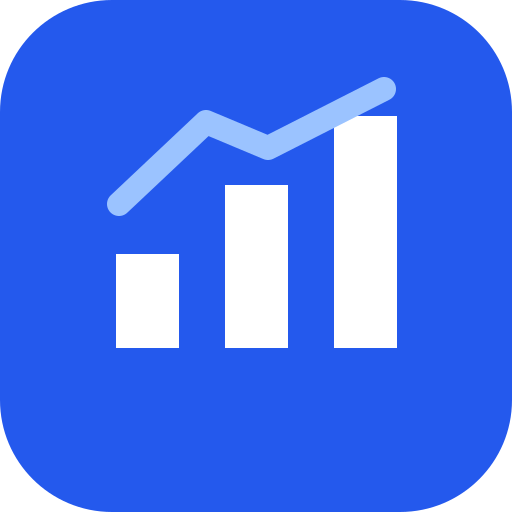
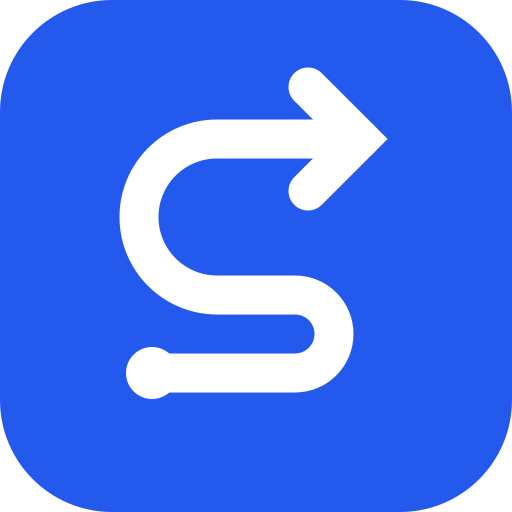
STR-002: rebrand product as Stratino without changing saved projects

Changed region(s): [[0.1875, 0.125, 0.7812, 0.7812]]

diff --git a/src/tours.js b/src/tours.js
@@ -6,7 +6,7 @@ const finish = step('.head-actions','تحلیل را به اقدام وصل کن
 const definitions = {
  overview:[intro,step('.strategy-banner','قدم بعدی شما','Your next step','مسیر ششمرحلهای یک فرایند تکرارشونده است. از این کارت به خروجی مرحله بعد بروید.','The six-stage workflow is iterative. This card takes you to the next deliverable.'),step('.metric','یک شاخص، یک دوره','One metric, one period','واحد، دوره مالی و مبنای مقایسه را بخوانید. ROA ماهانه را با ROA سالانه مقایسه نکنید.','Check the unit, accounting period and comparison baseline. Do not compare monthly ROA directly with annual ROA.'),step('.chart','عملکرد در برابر هدف','Actual versus target','خط پیوسته فروش نمونه و خط نقطهچین هدف است. فاصله را با علت و اقدام اصلاحی توضیح دهید.','The solid line is sample revenue; the dashed line is the target. Explain the gap with a cause and corrective action.'),finish],
  journey:[intro,step('.road-card','خروجی هر مرحله','A deliverable for every stage','این مسیر قفل ندارد. تکمیل فقط اعلام وضعیت تیم است؛ میتوانید برای اصلاح فرضها به مراحل قبل برگردید.','No stage is locked. Completion records your team’s progress. Return to earlier stages when assumptions change.'),finish],
- company:[intro,step('[data-tour="icp"]','ICP چیست؟','What is an ICP?','ICP توصیف مشتری یا شرکت ایدهآل است، نه یک نسبت با فرمول ثابت. برای نمونه رویش: شرکتهای ۵۰ تا ۲۰۰۰ نفره با نیاز تغذیه سالم و بودجه مشخص.','An ideal customer profile describes the customer or company you can serve best. It is not a ratio with a universal formula. Royesh’s example targets companies with 50–2,000 employees and a healthy-snack budget.'),step('.panel','ICP را با شاهد بسازید','Validate the profile','اندازه و صنعت، مسئله مشتری، بودجه، تصمیمگیرنده و معیار عدمپذیرش را بنویسید. با مصاحبه و داده خرید بررسی کنید کدام بخش سودآورتر و ماندگارتر است.','Document size and industry, customer problem, budget, decision-maker and disqualifiers. Validate the segment using interviews, purchase economics and retention.'),step('[data-action="companyEdit"]','پروفایل را اصلاح کنید','Update the company profile','مشتری هدف، مسئله اصلی و مرز انتخابها را در این فرم ثبت کنید. تغییرات در مرورگر ذخیره میشوند.','Use this form to record the target customer, central problem and boundaries of your strategy. Changes are saved locally.'),finish],
+ company:[intro,step('[data-tour="icp"]','ICP چیست؟','What is an ICP?','ICP توصیف مشتری یا شرکت ایدهآل است، نه یک نسبت با فرمول ثابت. برای شرکت نمونه: شرکتهای ۵۰ تا ۲۰۰۰ نفره با نیاز تغذیه سالم و بودجه مشخص.','An ideal customer profile describes the customer or company you can serve best. It is not a ratio with a universal formula. The sample company targets companies with 50–2,000 employees and a healthy-snack budget.'),step('.panel','ICP را با شاهد بسازید','Validate the profile','اندازه و صنعت، مسئله مشتری، بودجه، تصمیمگیرنده و معیار عدمپذیرش را بنویسید. با مصاحبه و داده خرید بررسی کنید کدام بخش سودآورتر و ماندگارتر است.','Document size and industry, customer problem, budget, decision-maker and disqualifiers. Validate the segment using interviews, purchase economics and retention.'),step('[data-action="companyEdit"]','پروفایل را اصلاح کنید','Update the company profile','مشتری هدف، مسئله اصلی و مرز انتخابها را در این فرم ثبت کنید. تغییرات در مرورگر ذخیره میشوند.','Use this form to record the target customer, central problem and boundaries of your strategy. Changes are saved locally.'),finish],
  environment:[intro,step('.cols-3 .panel','از روند به عامل','From a trend to a factor','PESTEL روندهای سیاسی، اقتصادی، اجتماعی، فناوری، محیطزیستی و حقوقی را بررسی میکند. برای هر عامل، اثر بر شرکت و منبع بنویسید.','PESTEL examines political, economic, social, technological, environmental and legal trends. Record a source and the effect on your company.'),step('.bar-chart','TAM، SAM و SOM','TAM, SAM and SOM','کل بازار، بازار قابلخدمت و سهم قابلدستیابی را با یک واحد و بازه زمانی بسنجید. SOM باید با ظرفیت فروش و وصول سازگار باشد.','Use consistent units and periods for total, serviceable and obtainable markets. SOM must fit your sales and collection capacity.'),finish],
  industry:[intro,step('.radar','پنج نیروی پورتر','Porter’s five forces','این تحلیل درباره ساختار صنعت است. امتیازهای ۱ تا ۵ فقط مقیاس کارگاهی این نمونهاند؛ رتبه علمی قطعی نیستند.','This analyzes industry structure. The 1–5 ratings are workshop scales in this prototype, not a standard Porter scoring formula.'),step('.data-table','مقایسه منصفانه رقبا','Compare competitors consistently','در CPM برای همه رقبا عوامل و وزنهای یکسان انتخاب کنید. مجموع وزنها ۱۰۰٪ است؛ رتبه ۱ تا ۴ با شاهد پشتیبانی شود.','In CPM, use the same factors and weights for every competitor. Weights total 100%; justify each 1–4 rating with evidence.'),finish],
  internal:[intro,step('.data-table','چهار سؤال VRIO','The four VRIO questions','ارزشمند، کمیاب، تقلید دشوار و قابلبهرهبرداری توسط سازمان؟ با لمس خانهها پاسخ را تغییر دهید. چهار بله فقط کاندیدای مزیت پایدار است.','Valuable, rare, costly to imitate and supported by the organization? Click cells to change answers. Four yeses identify a candidate for sustained advantage.'),step('.value-chain','ارزش کجا ساخته میشود؟','Where is value created?','در هر فعالیت زنجیره ارزش، هزینه و تمایز را تحلیل کنید و قابلیت را به عملکرد واقعی پیوند دهید.','Examine cost and differentiation in each value-chain activity. Connect capabilities to observed performance.'),finish],

diff --git a/src/data.js b/src/data.js
@@ -55,7 +55,7 @@ export function createSeed() {
     ['I1','کنترل کیفیت و قابلیت رهگیری هر محصول','قوت',15,4],['I2','تیم کوچک با سرعت بالای تصمیمگیری','قوت',12,3],['I3','مشتریان تکرارشونده در کانال مستقیم','قوت',10,4],['I4','قابلیت شخصیسازی بستهبندی','قوت',8,4],['I5','دادههای خرید و سلیقه مشتری','قوت',10,3],['I6','ظرفیت محدود تیم فروش سازمانی','ضعف',12,2],['I7','محدودیت سرمایه در گردش','ضعف',8,1],['I8','فرایند وصول مطالبات نامنظم','ضعف',10,2],['I9','شناخت کم برند در شهرهای جدید','ضعف',8,2],['I10','نبود تأمینکننده جایگزین تأییدشده','ضعف',7,2]
   ].map(([id,title,type,weight,rating])=>({id,title,type,weight,rating,source:'داده نمونه شرکت فرضی',confidence:'نمونه'}));
   return {
-    version:1, org:{name:'رویش',industry:'میانوعده سالم و هدایای سازمانی',employees:18,mission:'میانوعده باکیفیت و قابلاعتماد را به انتخاب روزمره آدمها تبدیل میکنیم.',vision:'تا ۱۴۰۷، شریک قابلاعتماد ۲۰۰ سازمان برای تغذیه سالم باشیم.',challenge:'چطور فروش سازمانی را رشد دهیم، بدون اینکه نقدینگی و کیفیت قربانی شوند؟',customer:'تیمهای منابع انسانی شرکتهای ۵۰ تا ۲۰۰۰ نفره و خریداران آنلاین سلامتمحور',values:'شفافیت، کیفیت قابلرهگیری، احترام به مشتری',notDoing:'رقابت صرفاً قیمتی و ورود همزمان به همه شهرها'},
+    version:1, org:{name:'آوند',industry:'میانوعده سالم و هدایای سازمانی',employees:18,mission:'میانوعده باکیفیت و قابلاعتماد را به انتخاب روزمره آدمها تبدیل میکنیم.',vision:'تا ۱۴۰۷، شریک قابلاعتماد ۲۰۰ سازمان برای تغذیه سالم باشیم.',challenge:'چطور فروش سازمانی را رشد دهیم، بدون اینکه نقدینگی و کیفیت قربانی شوند؟',customer:'تیمهای منابع انسانی شرکتهای ۵۰ تا ۲۰۰۰ نفره و خریداران آنلاین سلامتمحور',values:'شفافیت، کیفیت قابلرهگیری، احترام به مشتری',notDoing:'رقابت صرفاً قیمتی و ورود همزمان به همه شهرها'},
     completed:[true,true,false,false,false,false],external,internal,
     qScores:Object.fromEntries([...external,...internal].map((r,i)=>[r.id,{relevant:true,as:i%3===0?[4,3,2]:i%3===1?[3,2,4]:[4,2,3]}])),
     space:{FS:[4,3,4],IS:[5,4,4],CA:[-2,-3,-2],ES:[-4,-3,-4]},
@@ -87,7 +87,7 @@ export function createSeed() {
     ],
     pestel:[['سیاسی','اختلال تأمین و تغییر شرایط واردات','تهدید',5],['اقتصادی','تورم مواد اولیه و فشار سرمایه در گردش','تهدید',5],['اجتماعی','توجه مشتری هدف به میانوعده سالم','فرصت',4],['فناوری','رهگیری کیفیت و شخصیسازی پیشنهاد','فرصت',4],['محیطزیستی','تقاضای بستهبندی کمضایعات','فرصت',3],['حقوقی','الزامات برچسب و ادعاهای سلامت','تهدید',4]].map(([category,title,type,impact],i)=>({id:'T'+i,category,title,type,impact,source:'فرض کارگاهی؛ باید تحقیق شود'})),
     forces:[4,3,4,3,4],
-    competitors:[{id:'C1',name:'رویش',quality:4,price:3,brand:2,delivery:4,data:4,corporate:4},{id:'C2',name:'سبزین · فرضی',quality:3,price:4,brand:4,delivery:3,data:2,corporate:3},{id:'C3',name:'دانهنو · فرضی',quality:4,price:2,brand:3,delivery:3,data:3,corporate:2}],
+    competitors:[{id:'C1',name:'آوند',quality:4,price:3,brand:2,delivery:4,data:4,corporate:4},{id:'C2',name:'سبزین · فرضی',quality:3,price:4,brand:4,delivery:3,data:2,corporate:3},{id:'C3',name:'دانهنو · فرضی',quality:4,price:2,brand:3,delivery:3,data:3,corporate:2}],
     vrio:[{id:'V1',title:'رهگیری کیفیت محصول',v:true,r:true,i:false,o:true},{id:'V2',title:'شبکه تأمین اختصاصی',v:true,r:true,i:true,o:true},{id:'V3',title:'وبسایت فروشگاهی',v:true,r:false,i:false,o:true},{id:'V4',title:'داده رفتار مشتریان',v:true,r:true,i:true,o:false}],
     swot:[{id:'S1',type:'SO',title:'پایلوت هدایای سازمانی قابلرهگیری',detail:'قوت کیفیت + فرصت تقاضای سازمانی؛ آزمون با ۱۰ مشتری.'},{id:'S2',type:'WO',title:'تیم فروش سازمانی کوچک و تخصصی',detail:'رفع ضعف فروش برای استفاده از تقاضای سازمانی.'},{id:'S3',type:'ST',title:'قرارداد با تأمینکننده دوم',detail:'قوت کنترل کیفیت برای کاهش ریسک تأمین.'},{id:'S4',type:'WT',title:'سقف اعتبار و پیشپرداخت',detail:'کاهش ضعف نقدینگی در مقابل تهدید دیرکرد وصول.'}],
     options:[{id:'A',title:'فروش سازمانی هدفمند',detail:'پایلوت ۱۰ سازمان، قرارداد مرحلهای و پیشپرداخت',cost:360,fit:5,accept:4,feasible:4},{id:'B',title:'توسعه به سه شهر',detail:'گسترش شبکه ارسال و تبلیغات جغرافیایی',cost:720,fit:3,accept:3,feasible:2},{id:'C',title:'اشتراک میانوعده',detail:'بسته ماهانه برای مشتریان فعلی و دفاتر کار',cost:240,fit:4,accept:4,feasible:3}],

diff --git a/src/i18n.js b/src/i18n.js
@@ -1,6 +1,10 @@
 import {preferences} from './preferences.js';
+import {BRAND} from './brand.js';
 import {english} from './translations.js';
 const additions = {
+  [BRAND.fa]:BRAND.en,
+  'آوند':'Avand',
+  'موقعیت شرکت':'Company position',
   'حالت استفاده':'Working mode',
   'هشدارهای اعتبار داده و محاسبات در هر دو حالت نمایش داده میشوند.':'Data and calculation validation warnings remain visible in both modes.',
   'آموزشها روشن است. برای پنهانکردن دکمهها و درسها، کلید را خاموش کنید.':'Learning is on. Turn off the switch to hide tutorials and lessons.',
@@ -24,7 +28,7 @@ const additions = {
   'با خاموشکردن، همه دکمهها و بخشهای آموزشی پنهان میشوند. هشدارهای اعتبار داده و محاسبات همچنان نمایش داده میشوند.':'Turning this off hides learning buttons and sections. Data and calculation validation warnings remain visible.',
   'آموزش فعال است':'Learning enabled', 'حالت حرفهای':'Professional mode',
   'پاککردن داده مرورگر، اطلاعات را حذف میکند. فایل پشتیبان بگیرید.':'Clearing browser data deletes your records. Export a backup.',
-  'رویش · فضای کار مدیریت استراتژیک':'Royesh · Strategy management workspace',
+  'استراتینو · فضای کار مدیریت استراتژیک':'Stratino · Strategy management workspace',
   'رفتن به محتوای اصلی':'Skip to main content', 'منوی اصلی':'Main navigation', 'شاخص':'Metric', 'بازکردن منو':'Open menu',
   'تنظیمات فضای کار':'Workspace settings', 'توجهها و ریسکها':'Alerts and risks',
   'مثلاً: بازده دارایی، QSPM یا ریسک':'For example: return on assets, QSPM or risk', 'عبارت جستجو':'Search query',

diff --git a/src/translations.js b/src/translations.js
@@ -1,6 +1,6 @@
 // Reviewed English presentation strings. Canonical record values and routes remain unchanged.
 export const english = {
-  "| رویش": "| Royesh",
+  "| استراتینو": "| Stratino",
   "کتابخانه مستندات": "Document library",
   "· ویرایش": "· Edit",
   "ابتکار جدید": "New initiative",
@@ -464,8 +464,8 @@ export const english = {
   "روند فروش": "Revenue trend",
   "روند فروش و هدف": "Revenue and target trend",
   "روی چه قابلیتی میتوانیم حساب کنیم؟": "Which capabilities can we rely on?",
-  "رویش": "Royesh",
-  "رویش · پروتوتایپ آموزشی مدیریت استراتژیک": "Royesh · Educational strategy management prototype",
+  "استراتینو": "Stratino",
+  "استراتینو · پروتوتایپ آموزشی مدیریت استراتژیک": "Stratino · Educational strategy management prototype",
   "ریسک را ببینید، پاسخ را مشخص کنید.": "Understand risks. Define the response.",
   "ریسک و شرط بازبینی": "Risks and review conditions",
   "ریسکها": "Risks",
@@ -710,7 +710,7 @@ export const english = {
   "موعد بازبینی شمسی": "Review date · Jalali",
   "موعد شمسی": "Due date · Jalali",
   "موقعیت رقابتی و رشد بازار چه جهتهایی میسازند؟": "Which directions fit competitive position and market growth?",
-  "موقعیت رویش": "Royesh’s position",
+  "موقعیت استراتینو": "Stratino’s position",
   "میانگین خرید": "Average order value",
   "میانگین خرید × دفعات ماهانه × طول عمر به ماه × حاشیه مشارکت": "Average order value × Monthly frequency × Lifetime in months × Contribution margin",
   "میانگین دارایی ابتدا و انتها": "Average opening and closing assets",

diff --git a/public/sw.js b/public/sw.js
@@ -1,5 +1,5 @@
-const CACHE = 'strategy-prototype-v6';
-const ASSETS = ['/', '/index.html', '/src/app.js', '/src/search.js', '/src/data.js', '/src/document-catalog.js', '/src/calculations.js', '/src/charts.js', '/src/styles.css', '/src/appearance.js', '/src/preferences.js', '/src/i18n.js', '/src/translations.js', '/src/tours.js', '/src/illustrations.js', '/assets/vazirmatn.woff2', '/assets/icon.svg', '/assets/icon-192.png', '/assets/icon-512.png', '/manifest.webmanifest', '/manifest-en.webmanifest'];
+const CACHE = 'strategy-prototype-v7';
+const ASSETS = ['/', '/index.html', '/src/app.js', '/src/brand.js', '/src/search.js', '/src/data.js', '/src/document-catalog.js', '/src/calculations.js', '/src/charts.js', '/src/styles.css', '/src/appearance.js', '/src/preferences.js', '/src/i18n.js', '/src/translations.js', '/src/tours.js', '/src/illustrations.js', '/assets/vazirmatn.woff2', '/assets/icon.svg', '/assets/icon-192.png', '/assets/icon-512.png', '/manifest.webmanifest', '/manifest-en.webmanifest'];
 self.addEventListener('install', event => event.waitUntil(caches.open(CACHE).then(cache => cache.addAll(ASSETS)).then(() => self.skipWaiting())));
 self.addEventListener('activate', event => event.waitUntil(caches.keys().then(keys => Promise.all(keys.filter(key => key.startsWith('strategy-prototype-') && key !== CACHE).map(key => caches.delete(key)))).then(() => self.clients.claim())));
 self.addEventListener('fetch', event => {

diff --git a/public/index.html b/public/index.html
@@ -3,12 +3,12 @@
 <head>
   <meta charset="utf-8"><meta name="viewport" content="width=device-width,initial-scale=1">
   <meta name="theme-color" content="#2459ed">
-  <meta name="description" content="رویش؛ فضای کار مدیریت استراتژیک. پروتوتایپ آموزشی و تعاملی با دادههای نمونه.">
+  <meta name="description" content="استراتینو؛ فضای کار مدیریت استراتژیک. پروتوتایپ آموزشی و تعاملی با دادههای نمونه.">
   <link rel="icon" href="/assets/icon.svg" type="image/svg+xml"><link rel="apple-touch-icon" href="/assets/icon-192.png"><link rel="manifest" href="/manifest.webmanifest">
   <link rel="preload" href="/assets/vazirmatn.woff2" as="font" type="font/woff2" crossorigin>
   <script src="/src/appearance.js"></script>
   <link rel="stylesheet" href="/src/styles.css">
-  <title>رویش | فضای کار استراتژی</title>
+  <title>استراتینو | فضای کار استراتژی</title>
 </head>
 <body>
   <a class="skip" href="#main">رفتن به محتوای اصلی</a>

diff --git a/src/brand.js b/src/brand.js
@@ -1,0 +1,3 @@
+// Product identity is independent from project names and legacy storage keys.
+export const BRAND = Object.freeze({fa:'استراتینو',en:'Stratino',backupFilename:'stratino-strategy-backup.json'});
+export const BRAND_MARK = '<svg viewBox="0 0 32 32" aria-hidden="true"><path d="M24 7H13a6 6 0 0 0 0 12h6a3 3 0 0 1 0 6H8" fill="none" stroke="currentColor" stroke-width="3" stroke-linecap="round"/><path d="m20 3 4 4-4 4" fill="none" stroke="currentColor" stroke-width="3" stroke-linecap="round"/><circle cx="8" cy="25" r="2" fill="currentColor"/></svg>';

diff --git a/docs/BRAND.md b/docs/BRAND.md
@@ -1,0 +1,9 @@
+# استراتینو — هویت محصول و سازگاری داده
+
+نام فارسی استراتینو، لاتین Stratino؛ منبع اجرایی `src/brand.js`. title، نشان sidebar/report و نام JSON از هویت محصول استفاده میکنند؛ manifest و HTML نقطه ورود همین نام را دارند. نشان S با مسیر تصمیم و فلش برگشت به اقدام طراحی شده، با رنگ فعلی آبی و کنتراست روشن/تیره؛ نشان شرکت نمونه مستقل است.
+
+شرکت نمونه تازه «آوند / Avand» است تا نام ابزار با کسبوکار نمونه مخلوط نشود. اسم ذخیرهشده کاربر یا شرکت قدیمی بازنویسی نمیشود. `royesh-strategy-v1` و `royesh-preferences-v1` عمداً باقی میمانند؛ schema و نسخه JSON تغییری نکرده، پس داده قبلی مستقیم خوانده میشود و نیاز به migration تخریبی نیست. خروجی جدید نام stratino-strategy-backup.json دارد و import قدیمی همچنان همان schema را میپذیرد.
+
+هیچ نام دامنه/مخزن در GitHub تغییر نکرده است. مستندات تاریخی و نام کلید ذخیره استثناهای برند قدیمیاند. در تور، مثال به «شرکت نمونه» اشاره میکند؛ نام ثابت برند در داده شخصی وارد نمیشود.
+
+نقد طراحی: S مسیرگونه جای نمودار generic در نشان محصول نشست؛ رنگ جدید بیدلیل یا تزئین اضافه وارد داشبورد نشد. تایپوگرافی و layout خط پایه حفظ شدند؛ هویت کامل صفحه عمومی در پایه React تکمیل میشود.

diff --git a/README.md b/README.md
@@ -1,8 +1,8 @@
-# رویش — پنل مدیریت استراتژیک
+# استراتینو — پنل مدیریت استراتژیک
 
 ## مسیر محصول جدید: استراتینو / Stratino
 
-نام محصول آینده استراتینو انتخاب شده است. [فهرست ۵۲ تسک اولویتدار و تفصیلی](docs/backlog/README.md) و [نقشه پیگیری GitHub](https://github.com/Hamrez95/StrategicManagementPanel/issues/53) از آمادهسازی ریپو، تغییر نام و جداسازی بخشها شروع میشوند. جهت توسعه React + TypeScript + Vite، Django و PostgreSQL است؛ رابط اجرایی زیر هنوز پروتوتایپ فعلی است و تغییر واقعی نام/ساختار در تسکها انجام میشود.
+نام محصول استراتینو است. [فهرست ۵۲ تسک اولویتدار و تفصیلی](docs/backlog/README.md) و [نقشه پیگیری GitHub](https://github.com/Hamrez95/StrategicManagementPanel/issues/53) از آمادهسازی ریپو، تغییر نام و جداسازی بخشها شروع میشوند. جهت توسعه React + TypeScript + Vite، Django و PostgreSQL است؛ رابط اجرایی زیر هنوز پروتوتایپ فعلی است و تغییر واقعی نام/ساختار در تسکها انجام میشود.
 
 برای ادامه توسعه ابتدا `AGENTS.md`، تسک انتخابشده و [گردش توسعه](docs/DEVELOPMENT_WORKFLOW.md) را بخوانید. مهارت frontend-design داخل `.agents/skills/` و Graphify مخصوص Codex داخل `.codex/skills/` ثبت شدهاند؛ [قرارداد UI/UX](docs/UX_STANDARD.md) در همه تسکها اعمال میشود.
 

diff --git a/docs/backlog/README.md b/docs/backlog/README.md
@@ -101,3 +101,4 @@ React + TypeScript + Vite؛ Django/DRF modular monolith؛ PostgreSQL؛ فایل 
 ## وضعیت اجرای ثبتشده
 
 - STR-001: خط پایه و جدول parity، ابزار و دستور Windows ثبت شد؛ ۳۹ تست و ۱۵۶ بررسی صفحه/۲۹ مرحله تور، آفلاین و حفظ داده پاس شدند؛ چهار تصویر واقعی breakpoint ثبت شد؛ Graphify در worktree تازه build/query شد؛ دو ترجمه ناقص تنظیمات اصلاح شد.
+- STR-002: هویت محصول و نشان S، HTML/manifest و نام خروجی استراتینو شد؛ شرکت نمونه آوند است؛ داده قدیمی بدون بازنویسی با تست مرورگر حفظ شد؛ ۳۹ تست و ۱۵۶ بررسی صفحه/۲۹ تور و چهار breakpoint پاس شدند.
